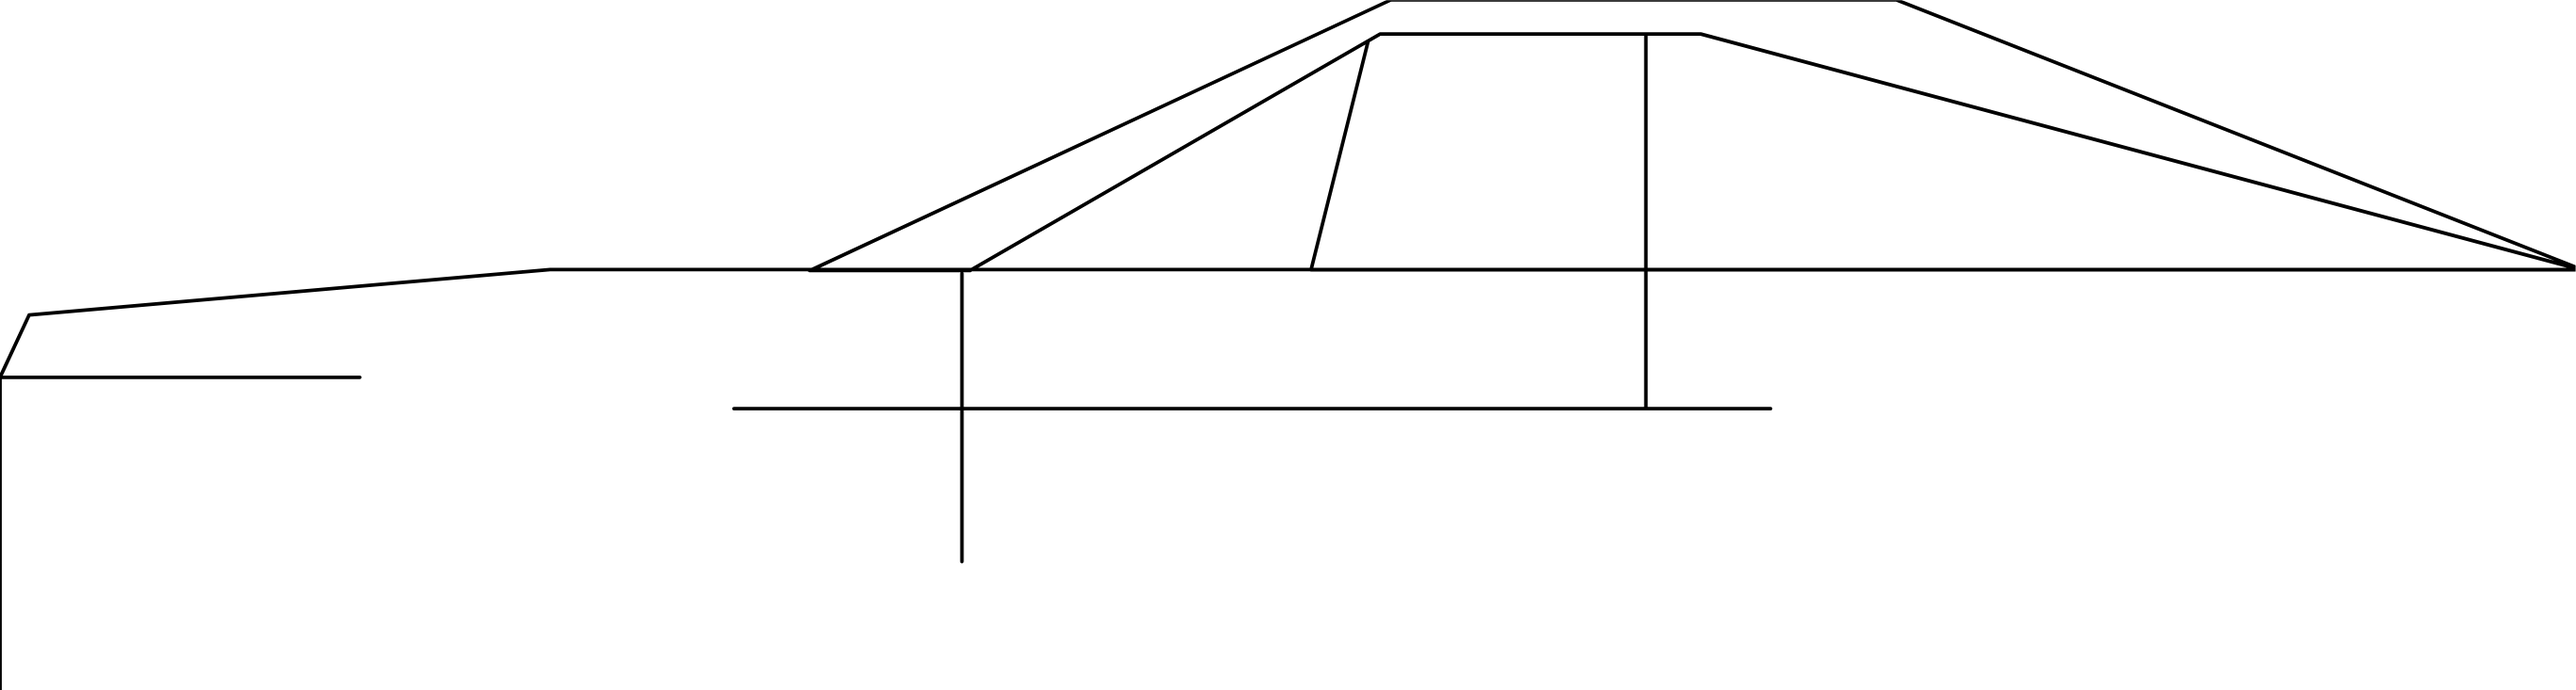
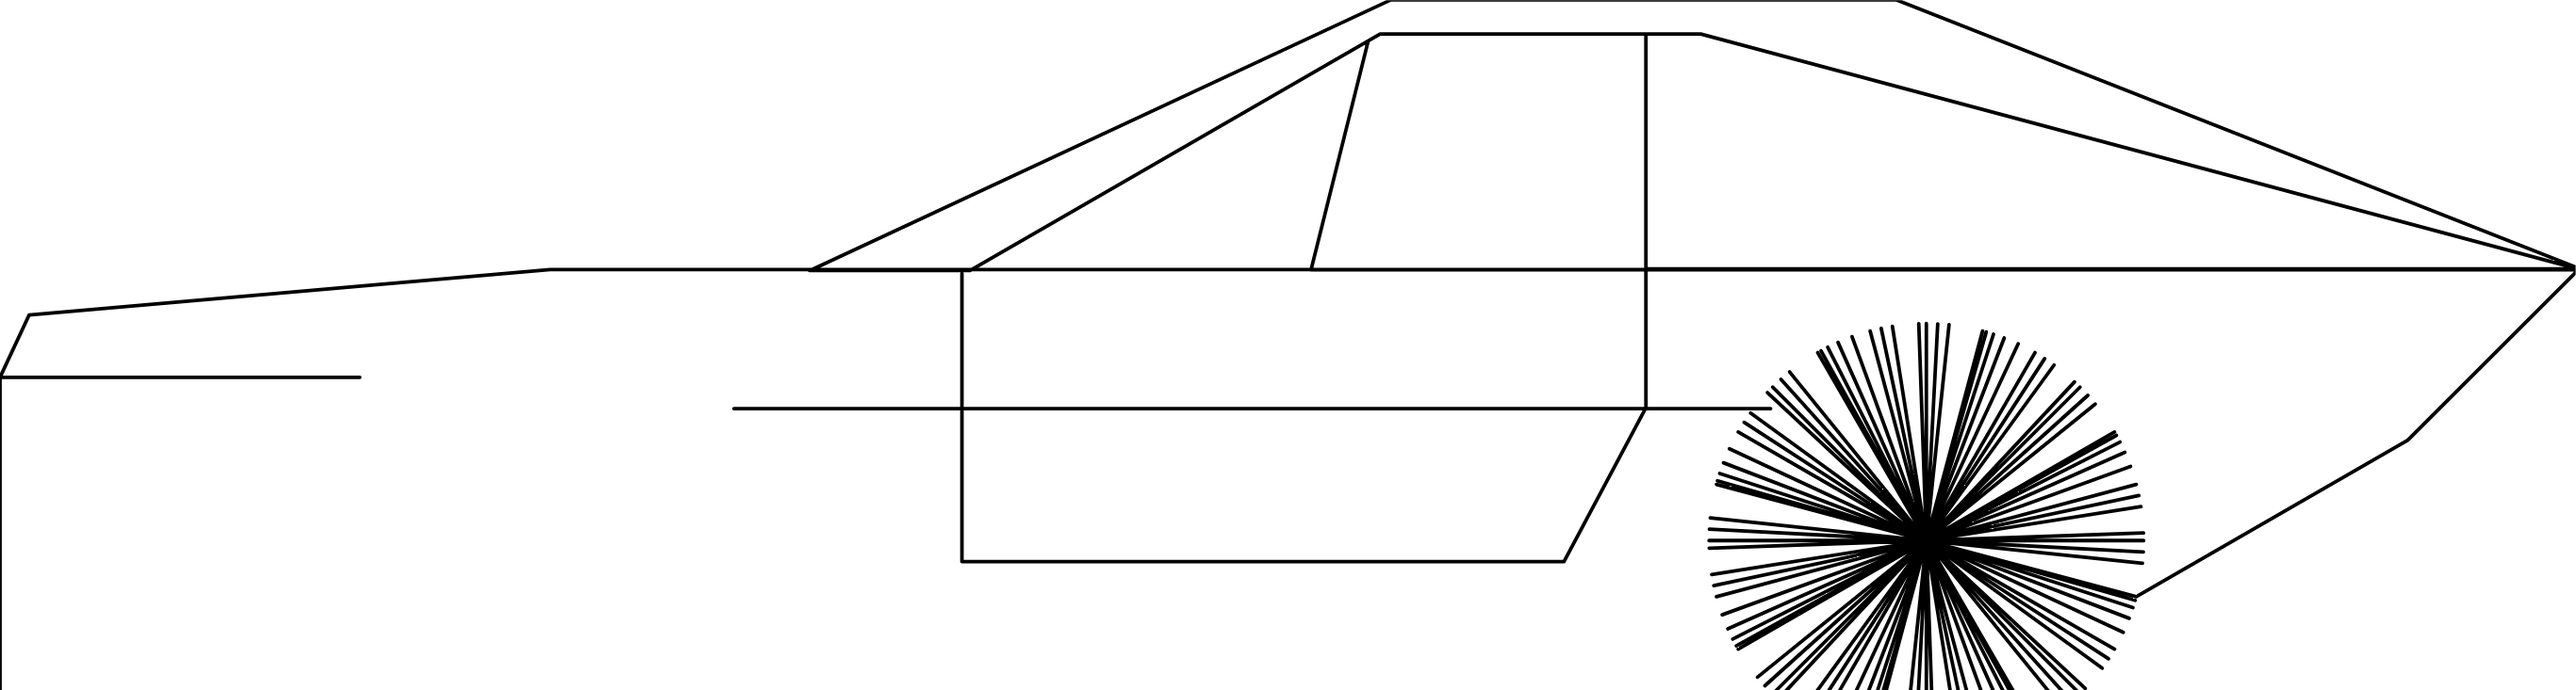
wheels kinda

diff --git a/project.js b/project.js
@@ -59,6 +59,33 @@ t.forward(38)
 t.right(180)
 t.forward(38)
 t.forward(43)
+t.left(90)
+t.forward(169)
+t.left(62)
+t.forward(49)
+t.left(28)
+t.forward(39)
+t.right(90)
+t.forward(262)
+t.right(90+45)
+t.forward(68.095)
+t.right(15)
+t.forward(88)
+
+
+t.right(45)
+t.forward(61) //centre
+let angle = 0
+const radius = 61
+while(angle!=360){
+  angle = angle + 1
+  t.right(angle)
+  t.forward(radius)
+  t.right(180)
+  t.forward(radius)
+  t.right(180)
+}
+t.forward(61)
 
 
 
